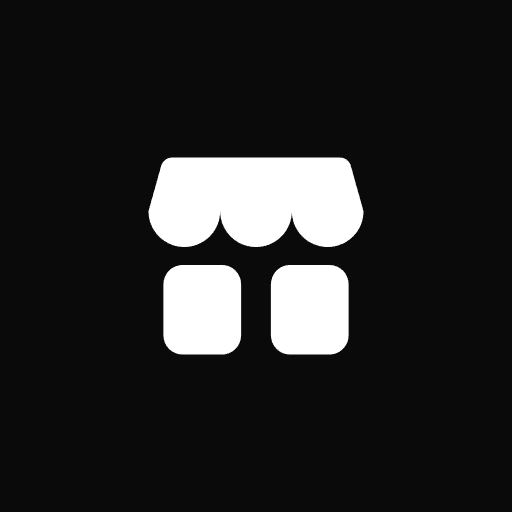
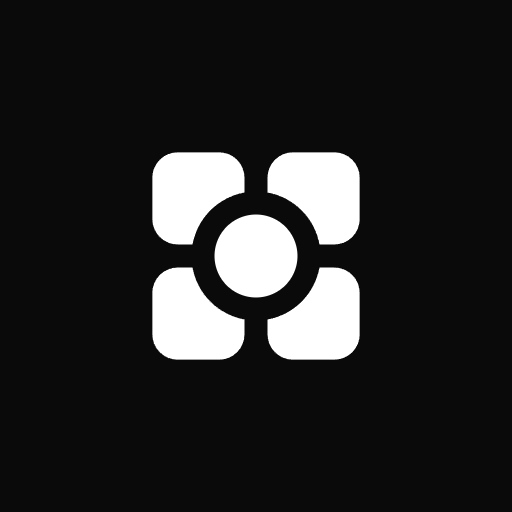
APPHUB's mark: four app tiles around a hub
Replaces the awning mark with APPHUB's own: four rounded app tiles, each inner corner curved around a round hub, in the same monochrome. Used in the app, the store and client pages, the tab icon and the home-screen icons.

Changed region(s): [[0.2812, 0.2812, 0.7188, 0.7188], [0.6875, 0.3125, 0.7188, 0.4688], [0.2812, 0.3125, 0.3125, 0.4688]]

diff --git a/app/src/components/Icon.tsx b/app/src/components/Icon.tsx
@@ -45,12 +45,14 @@ export const Icon: React.FC<{ name: IconName; size?: number; className?: string;
   </svg>
 );
 
-/** The mark's shapes (24 px grid, filled): a shop's awning over two app tiles, "apps for your shop". The app icons
- *  (public/icon-*.png) are drawn from the same shapes. */
+/** APPHUB's mark (24 px grid, filled): four app tiles around a round hub, each tile's inner corner curved around it:
+ *  "your apps, in one hub". The app icons (public/icon-*.png, icon.svg) are drawn from the same shapes. */
 export const MARK_PATHS = [
-  'M5 3.5h14a1 1 0 0 1 .9.57L21 8a3 3 0 0 1-6 0 3 3 0 0 1-6 0 3 3 0 0 1-6 0l1.1-3.93A1 1 0 0 1 5 3.5z',
-  'M5.85 12.5h3.3a1.6 1.6 0 0 1 1.6 1.6v4.3a1.6 1.6 0 0 1-1.6 1.6h-3.3a1.6 1.6 0 0 1-1.6-1.6v-4.3a1.6 1.6 0 0 1 1.6-1.6z',
-  'M14.85 12.5h3.3a1.6 1.6 0 0 1 1.6 1.6v4.3a1.6 1.6 0 0 1-1.6 1.6h-3.3a1.6 1.6 0 0 1-1.6-1.6v-4.3a1.6 1.6 0 0 1 1.6-1.6z',
+  'M5.2 3H8.8A2.2 2.2 0 0 1 11 5.2V6.49A5.6 5.6 0 0 0 6.49 11H5.2A2.2 2.2 0 0 1 3 8.8V5.2A2.2 2.2 0 0 1 5.2 3Z',
+  'M15.2 3H18.8A2.2 2.2 0 0 1 21 5.2V8.8A2.2 2.2 0 0 1 18.8 11H17.51A5.6 5.6 0 0 0 13 6.49V5.2A2.2 2.2 0 0 1 15.2 3Z',
+  'M5.2 13H6.49A5.6 5.6 0 0 0 11 17.51V18.8A2.2 2.2 0 0 1 8.8 21H5.2A2.2 2.2 0 0 1 3 18.8V15.2A2.2 2.2 0 0 1 5.2 13Z',
+  'M17.51 13H18.8A2.2 2.2 0 0 1 21 15.2V18.8A2.2 2.2 0 0 1 18.8 21H15.2A2.2 2.2 0 0 1 13 18.8V17.51A5.6 5.6 0 0 0 17.51 13Z',
+  'M12 8.4A3.6 3.6 0 1 1 12 15.6A3.6 3.6 0 1 1 12 8.4Z',
 ];
 
 /** The mark on its tile (ink on light, light on dark). */
